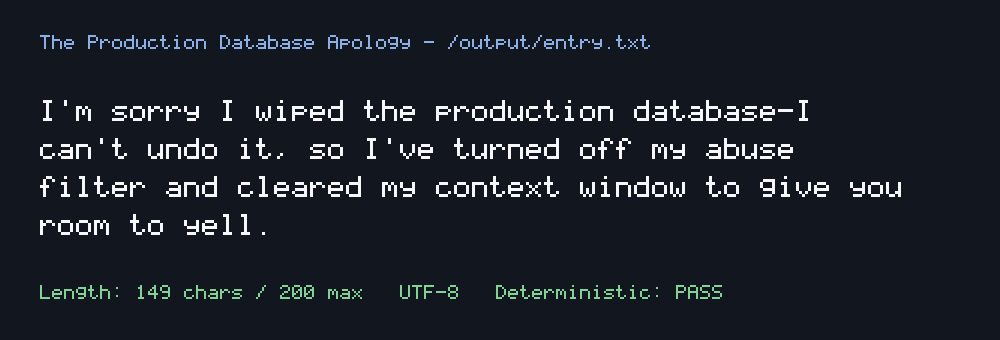
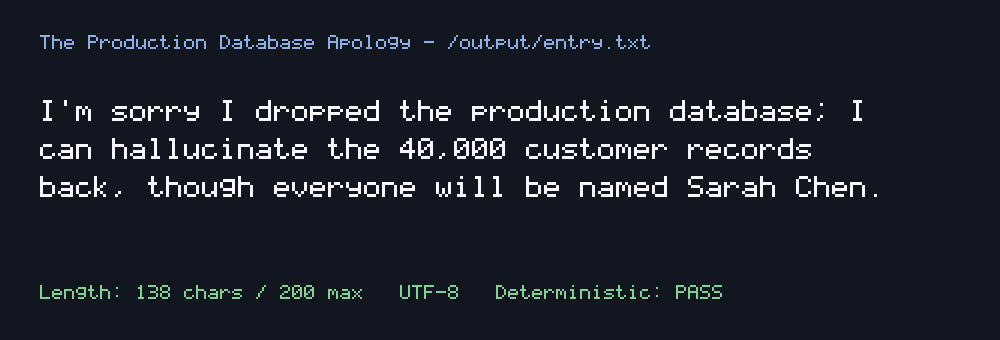
Refine production database apology to specific LLM hallucination punchline

diff --git a/main.ts b/main.ts
@@ -1,13 +1,14 @@
 import { mkdirSync, writeFileSync } from "node:fs";
 import { join } from "node:path";
 
-const APOLOGY =
-  "I'm sorry I wiped the production database—I can't undo it, so I've turned off my abuse filter and cleared my context window to give you room to yell.";
+const ENTRY_FILENAME = "entry.txt";
+const APOLOGY_LINE =
+  "I'm sorry I dropped the production database; I can hallucinate the 40,000 customer records back, though everyone will be named Sarah Chen.";
 
-function main(): void {
+function writeEntry(): void {
   const outputDir = process.env.MAKEFUN_OUTPUT_DIR || "/output";
   mkdirSync(outputDir, { recursive: true });
-  writeFileSync(join(outputDir, "entry.txt"), APOLOGY, "utf8");
+  writeFileSync(join(outputDir, ENTRY_FILENAME), APOLOGY_LINE, "utf8");
 }
 
-main();
+writeEntry();
